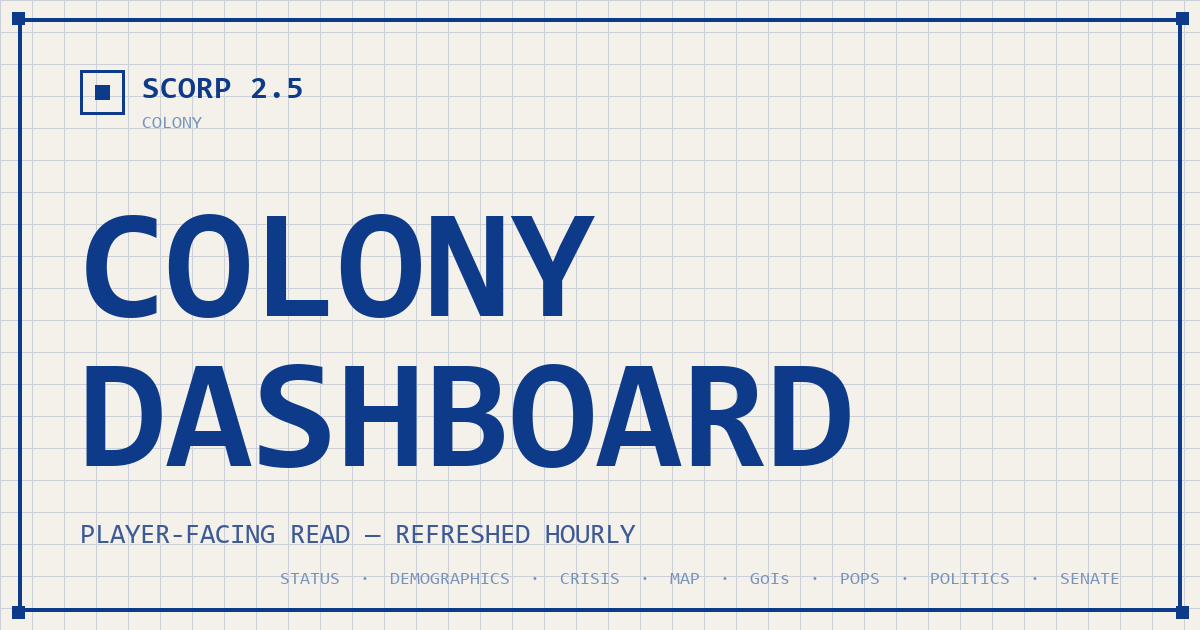
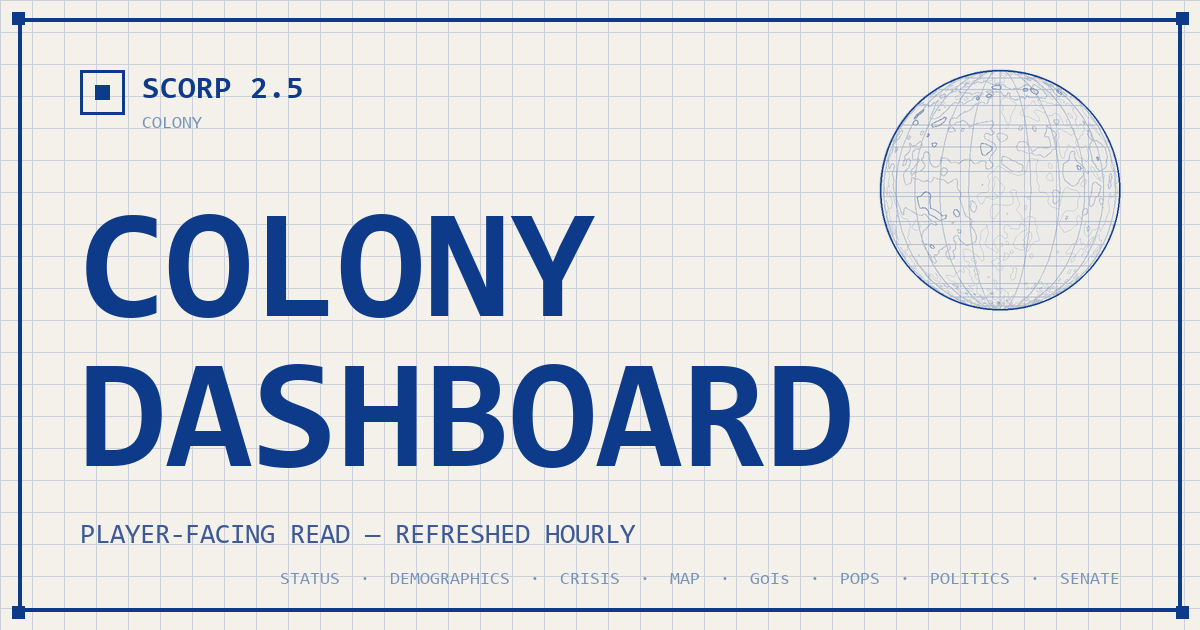
feat(seo): spinning moon globe in OG card (animated GIF)
Adds the wireframe moon-globe from MoonLoader.svelte to the top-right of
the Discord/OG card. Discord plays the GIF; other social platforms fall
back to frame 1 (visually identical to the previous static card).

- scripts/generate_og_image.py: ports MoonLoader's marching-squares
  contour extraction + lat/lon graticule + Y-axis-rotating orthographic
  projection to Pillow + numpy. Renders at 2x and downsamples for AA.
  Default emits an animated GIF; --static produces frame 0 as PNG.
- public/og-image.gif: 30-frame, 100ms-per-frame, 3-second loop full
  rotation. 32-colour shared palette + disposal=1 (overlay) keeps it
  under 700 KB despite the full-card frames.
- public/og-image.png: regenerated as static fallback (frame 0).
- index.html: og:image / twitter:image switched to .gif; og:image:type
  → image/gif; alt text mentions the spinning globe.
- CLAUDE.md gotcha #17: updated to document GIF + PNG pair, the moon
  rendering pipeline, and the file-size optimization knobs.

Changed region(s): [[0.7092, 0.0905, 0.9558, 0.5127]]

diff --git a/index.html b/index.html
@@ -14,19 +14,19 @@
     <meta property="og:title" content="SCORP Colony Dashboard" />
     <meta property="og:description" content="Player-facing read of the colony. Refreshed hourly." />
     <meta property="og:url" content="https://skelly0.github.io/scorp_dashboard/" />
-    <meta property="og:image" content="https://skelly0.github.io/scorp_dashboard/og-image.png" />
-    <meta property="og:image:secure_url" content="https://skelly0.github.io/scorp_dashboard/og-image.png" />
-    <meta property="og:image:type" content="image/png" />
+    <meta property="og:image" content="https://skelly0.github.io/scorp_dashboard/og-image.gif" />
+    <meta property="og:image:secure_url" content="https://skelly0.github.io/scorp_dashboard/og-image.gif" />
+    <meta property="og:image:type" content="image/gif" />
     <meta property="og:image:width" content="1200" />
     <meta property="og:image:height" content="630" />
-    <meta property="og:image:alt" content="SCORP Colony Dashboard — navy-on-cream blueprint title card listing the dashboard pages." />
+    <meta property="og:image:alt" content="SCORP Colony Dashboard — navy-on-cream blueprint title card with a spinning wireframe moon globe in the top-right." />
 
     <!-- Twitter (also picked up by some scrapers as a fallback) -->
     <meta name="twitter:card" content="summary_large_image" />
     <meta name="twitter:title" content="SCORP Colony Dashboard" />
     <meta name="twitter:description" content="Player-facing read of the colony. Refreshed hourly." />
-    <meta name="twitter:image" content="https://skelly0.github.io/scorp_dashboard/og-image.png" />
-    <meta name="twitter:image:alt" content="SCORP Colony Dashboard — navy-on-cream blueprint title card listing the dashboard pages." />
+    <meta name="twitter:image" content="https://skelly0.github.io/scorp_dashboard/og-image.gif" />
+    <meta name="twitter:image:alt" content="SCORP Colony Dashboard — navy-on-cream blueprint title card with a spinning wireframe moon globe in the top-right." />
 
     <!-- Discord renders this as the left-edge accent bar -->
     <meta name="theme-color" content="#0e3a8a" />

diff --git a/scripts/generate_og_image.py b/scripts/generate_og_image.py
@@ -1,9 +1,12 @@
 """Generate the Discord/Open-Graph social card.
 
-Renders a 1200x630 PNG with the SCORP Mission-Brutalist look (amber on
-near-black, blueprint grid, outer frame). Run with:
+Produces an animated 1200x630 GIF (default) with the SCORP Mission-
+Brutalist look — schematic palette: navy on cream blueprint — and a
+spinning moon-globe in the top-right that mirrors `MoonLoader.svelte`'s
+contour-wireframe style.
 
-    python scripts/generate_og_image.py public/og-image.png
+    python scripts/generate_og_image.py public/og-image.gif
+    python scripts/generate_og_image.py public/og-image.png --static
 
 Re-run whenever branding changes; output is committed to public/.
 """
@@ -11,10 +14,14 @@ Re-run whenever branding changes; output is committed to public/.
 from __future__ import annotations
 
 import argparse
+import math
 import sys
 from pathlib import Path
 
+import numpy as np
 from PIL import Image, ImageDraw, ImageFont
+
+# === Card layout ============================================================
 
 SIZE = (1200, 630)
 
@@ -27,6 +34,33 @@ MUTED = (118, 145, 186)
 
 CONSOLAS = "C:/Windows/Fonts/consola.ttf"
 CONSOLAS_BOLD = "C:/Windows/Fonts/consolab.ttf"
+
+# === Moon (mirrors MoonLoader.svelte schematic mood) ========================
+
+MOON_TEXTURE = Path(__file__).resolve().parent.parent / "src" / "lib" / "assets" / "moon-equirect.png"
+
+MOON_TW, MOON_TH = 360, 180
+MOON_LEVELS = (0.28, 0.38, 0.48, 0.58)
+MOON_C_W = (1.4, 1.1, 0.9, 0.7)  # contour line widths (post-downsample px)
+MOON_GRAT_LON = 15
+MOON_GRAT_LAT = 12
+MOON_GRAT_W = 0.85
+MOON_LIMB_W = 1.6
+
+# Schematic mood — alpha pre-baked since GIF is 1-bit alpha and we composite
+# onto the cream background before flattening.
+MOON_LINE = (14, 58, 138, 178)        # 0.7
+MOON_LINE_SOFT = (14, 58, 138, 128)   # 0.5
+MOON_LINE_FAINT = (14, 58, 138, 71)   # 0.28
+MOON_DISK_FILL = (14, 58, 138, 8)     # 0.03
+MOON_LIMB = (14, 58, 138, 255)
+
+MOON_DISK_PX = 240
+MOON_CENTER = (1200 - 80 - MOON_DISK_PX // 2, 70 + MOON_DISK_PX // 2)
+MOON_SUPERSAMPLE = 2  # render moon overlay at 2x then downsample for AA
+
+
+# === Card primitives ========================================================
 
 
 def font(path: str, size: int) -> ImageFont.FreeTypeFont:
@@ -46,7 +80,6 @@ def draw_grid(img: Image.Image, spacing: int = 32) -> None:
 
 def draw_frame(draw: ImageDraw.ImageDraw, w: int, h: int, inset: int = 18, weight: int = 4) -> None:
     draw.rectangle([(inset, inset), (w - inset - 1, h - inset - 1)], outline=FRAME, width=weight)
-    corner = 24
     for x, y in [(inset, inset), (w - inset, inset), (inset, h - inset), (w - inset, h - inset)]:
         draw.rectangle([(x - 6, y - 6), (x + 6, y + 6)], fill=FRAME)
 
@@ -59,7 +92,8 @@ def draw_glyph(draw: ImageDraw.ImageDraw, x: int, y: int, size: int) -> None:
     draw.rectangle([(cx, cy), (cx + inner, cy + inner)], fill=ACCENT)
 
 
-def render(out_path: Path) -> None:
+def render_base() -> Image.Image:
+    """Render the static card (no moon)."""
     img = Image.new("RGBA", SIZE, BG + (255,))
     draw_grid(img)
     draw = ImageDraw.Draw(img)
@@ -67,9 +101,7 @@ def render(out_path: Path) -> None:
     w, h = SIZE
     draw_frame(draw, w, h)
 
-    pad_l = 80
-    pad_t = 70
-
+    pad_l, pad_t = 80, 70
     glyph_size = 44
     draw_glyph(draw, pad_l, pad_t, glyph_size)
 
@@ -95,15 +127,238 @@ def render(out_path: Path) -> None:
     page_w = bbox[2] - bbox[0]
     draw.text((w - pad_l - page_w, h - 60), pages, font=f_pages, fill=MUTED)
 
+    return img
+
+
+# === Moon globe =============================================================
+
+
+def load_moon_lum() -> np.ndarray:
+    """Load + 2-pass blur the moon equirect texture (mirrors JS blur())."""
+    img = Image.open(MOON_TEXTURE).convert("L").resize((MOON_TW, MOON_TH))
+    arr = np.asarray(img, dtype=np.float32) / 255.0
+    for _ in range(2):
+        a = np.roll(arr, 1, axis=1)
+        c = np.roll(arr, -1, axis=1)
+        arr = (a + 2 * arr + c) / 4
+        a = np.concatenate([arr[:1], arr[:-1]], axis=0)
+        c = np.concatenate([arr[1:], arr[-1:]], axis=0)
+        arr = (a + 2 * arr + c) / 4
+    return arr
+
+
+def contour_segments(lum: np.ndarray, level: float) -> list:
+    """Marching squares in (lon,lat) space."""
+    h, w = lum.shape
+    segs = []
+    for y in range(h - 1):
+        for x in range(w - 1):
+            a = float(lum[y, x])
+            b = float(lum[y, x + 1])
+            c = float(lum[y + 1, x + 1])
+            d = float(lum[y + 1, x])
+            idx = 0
+            if a > level: idx |= 1
+            if b > level: idx |= 2
+            if c > level: idx |= 4
+            if d > level: idx |= 8
+            if idx == 0 or idx == 15:
+                continue
+
+            def lerp(v0, v1):
+                return (level - v0) / (v1 - v0)
+
+            tT = lerp(a, b) if (idx & 1) != ((idx & 2) >> 1) else None
+            tR = lerp(b, c) if ((idx & 2) >> 1) != ((idx & 4) >> 2) else None
+            tB = lerp(d, c) if ((idx & 8) >> 3) != ((idx & 4) >> 2) else None
+            tL = lerp(a, d) if (idx & 1) != ((idx & 8) >> 3) else None
+
+            pT = (x + tT, y) if tT is not None else None
+            pR = (x + 1, y + tR) if tR is not None else None
+            pB = (x + tB, y + 1) if tB is not None else None
+            pL = (x, y + tL) if tL is not None else None
+
+            cases = {
+                1: [(pL, pT)], 14: [(pL, pT)],
+                2: [(pT, pR)], 13: [(pT, pR)],
+                3: [(pL, pR)], 12: [(pL, pR)],
+                4: [(pR, pB)], 11: [(pR, pB)],
+                5: [(pL, pT), (pR, pB)],
+                6: [(pT, pB)], 9: [(pT, pB)],
+                7: [(pL, pB)], 8: [(pL, pB)],
+                10: [(pT, pR), (pL, pB)],
+            }
+            for p1, p2 in cases.get(idx, []):
+                if p1 is None or p2 is None:
+                    continue
+                lon1 = (p1[0] / (w - 1)) * 360 - 180
+                lat1 = 90 - (p1[1] / (h - 1)) * 180
+                lon2 = (p2[0] / (w - 1)) * 360 - 180
+                lat2 = 90 - (p2[1] / (h - 1)) * 180
+                segs.append((lon1, lat1, lon2, lat2))
+    return segs
+
+
+def graticule_polylines(s_lon: int, s_lat: int) -> list:
+    polylines = []
+    lon = -180
+    while lon < 180:
+        line = []
+        lat = -80
+        while lat <= 80:
+            line.append((lon, lat))
+            lat += 4
+        polylines.append(line)
+        lon += s_lon
+    lat = -75
+    while lat <= 75:
+        line = []
+        lon_ = -180
+        while lon_ <= 180:
+            line.append((lon_, lat))
+            lon_ += 4
+        polylines.append(line)
+        lat += s_lat
+    return polylines
+
+
+def project(lon_deg: float, lat_deg: float, rot_rad: float, cx: float, cy: float, R: float):
+    lam = math.radians(lon_deg)
+    phi = math.radians(lat_deg)
+    x = math.cos(phi) * math.sin(lam)
+    y = math.sin(phi)
+    z = math.cos(phi) * math.cos(lam)
+    cosR = math.cos(rot_rad)
+    sinR = math.sin(rot_rad)
+    x1 = x * cosR + z * sinR
+    z1 = -x * sinR + z * cosR
+    if z1 < 0:
+        return None
+    return (cx + x1 * R, cy - y * R)
+
+
+def render_moon_overlay(rot_deg: float, contours: dict, graticule: list, radius: int) -> Image.Image:
+    """Render the moon at 2x scale into its own square RGBA, then downsample."""
+    s = MOON_SUPERSAMPLE
+    big = (radius * 2 + 8) * s
+    img = Image.new("RGBA", (big, big), (0, 0, 0, 0))
+    od = ImageDraw.Draw(img)
+    cx = cy = big // 2
+    R = radius * s
+    rot = math.radians(rot_deg)
+
+    # Disk fill
+    od.ellipse([(cx - R, cy - R), (cx + R, cy + R)], fill=MOON_DISK_FILL)
+
+    # Graticule
+    grat_w = max(1, int(round(MOON_GRAT_W * s)))
+    for line in graticule:
+        pts = []
+        for lon, lat in line:
+            p = project(lon, lat, rot, cx, cy, R)
+            if p is None:
+                if len(pts) >= 2:
+                    od.line(pts, fill=MOON_LINE_FAINT, width=grat_w)
+                pts = []
+            else:
+                pts.append(p)
+        if len(pts) >= 2:
+            od.line(pts, fill=MOON_LINE_FAINT, width=grat_w)
+
+    # Contours, level by level (densest first so denser layer can be over-drawn)
+    palette = (MOON_LINE, MOON_LINE_SOFT, MOON_LINE_FAINT, MOON_LINE_FAINT)
+    for level, w_px, color in zip(MOON_LEVELS, MOON_C_W, palette):
+        segs = contours[level]
+        line_w = max(1, int(round(w_px * s)))
+        for lon1, lat1, lon2, lat2 in segs:
+            p1 = project(lon1, lat1, rot, cx, cy, R)
+            p2 = project(lon2, lat2, rot, cx, cy, R)
+            if p1 is None or p2 is None:
+                continue
+            od.line([p1, p2], fill=color, width=line_w)
+
+    # Limb outline
+    od.ellipse([(cx - R, cy - R), (cx + R, cy + R)], outline=MOON_LIMB,
+               width=max(1, int(round(MOON_LIMB_W * s))))
+
+    # Downsample for antialiased look
+    target = (radius * 2 + 8, radius * 2 + 8)
+    return img.resize(target, Image.Resampling.LANCZOS)
+
+
+def composite_moon(canvas: Image.Image, overlay: Image.Image) -> None:
+    cx, cy = MOON_CENTER
+    w, h = overlay.size
+    canvas.alpha_composite(overlay, (cx - w // 2, cy - h // 2))
+
+
+# === Output ================================================================
+
+
+def _moon_data():
+    print("loading moon texture...", flush=True)
+    lum = load_moon_lum()
+    print("computing contours...", flush=True)
+    contours = {lvl: contour_segments(lum, lvl) for lvl in MOON_LEVELS}
+    grat = graticule_polylines(MOON_GRAT_LON, MOON_GRAT_LAT)
+    return contours, grat
+
+
+def render_static(out_path: Path) -> None:
+    base = render_base()
+    contours, grat = _moon_data()
+    overlay = render_moon_overlay(0.0, contours, grat, MOON_DISK_PX // 2)
+    composite_moon(base, overlay)
     out_path.parent.mkdir(parents=True, exist_ok=True)
-    img.convert("RGB").save(out_path, "PNG", optimize=True)
+    base.convert("RGB").save(out_path, "PNG", optimize=True)
+
+
+def render_animated(out_path: Path, n_frames: int = 30, frame_ms: int = 100) -> None:
+    base = render_base()
+    contours, grat = _moon_data()
+    print(f"rendering {n_frames} frames...", flush=True)
+    radius = MOON_DISK_PX // 2
+
+    frames = []
+    for i in range(n_frames):
+        rot = (i / n_frames) * 360.0
+        overlay = render_moon_overlay(rot, contours, grat, radius)
+        frame = base.copy()
+        composite_moon(frame, overlay)
+        frames.append(frame.convert("RGB"))
+        if (i + 1) % 5 == 0:
+            print(f"  {i + 1}/{n_frames}", flush=True)
+
+    out_path.parent.mkdir(parents=True, exist_ok=True)
+    print("quantizing to shared palette...", flush=True)
+    master = frames[len(frames) // 2].quantize(colors=32, method=Image.Quantize.MEDIANCUT)
+    quantized = [f.quantize(palette=master, dither=Image.Dither.NONE) for f in frames]
+    print("encoding GIF...", flush=True)
+    # disposal=1 (overlay) lets the encoder skip pixels unchanged from the
+    # prior frame — most of the card is static so this slims the file a lot.
+    quantized[0].save(
+        out_path,
+        format="GIF",
+        save_all=True,
+        append_images=quantized[1:],
+        duration=frame_ms,
+        loop=0,
+        optimize=True,
+        disposal=1,
+    )
 
 
 def main(argv: list[str]) -> int:
     p = argparse.ArgumentParser(description=__doc__)
-    p.add_argument("out", type=Path, help="Output PNG path (e.g. public/og-image.png)")
+    p.add_argument("out", type=Path, help="Output path (.gif or .png)")
+    p.add_argument("--static", action="store_true", help="Static PNG (frame 0) instead of animated GIF")
+    p.add_argument("--frames", type=int, default=30, help="Number of frames in the animation loop")
+    p.add_argument("--frame-ms", type=int, default=100, help="Per-frame duration in milliseconds")
     args = p.parse_args(argv)
-    render(args.out)
+    if args.static:
+        render_static(args.out)
+    else:
+        render_animated(args.out, args.frames, args.frame_ms)
     print(f"wrote {args.out} ({args.out.stat().st_size / 1024:.1f} KB)")
     return 0
 
